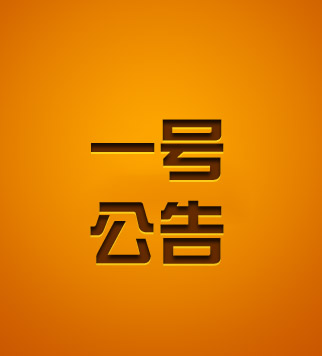
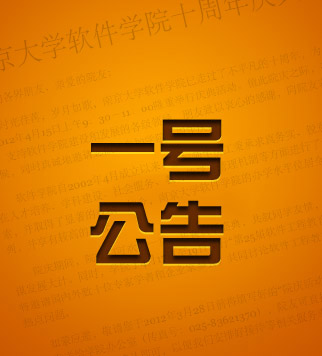
use template to display announcements

diff --git a/index.html b/index.html
@@ -141,26 +141,12 @@ slider:
   <!-- /section header -->
   <!-- section content -->
   <div class="announcements content clearfix">
-    <!-- column 1 -->
-    <div class="col col-1-4"> <header><span>一号公告</span></header>
-      <div class="lw-image"> <a href="http://software.nju.edu.cn?iframe=true&amp;width=100%&amp;height=100%" data-gal="lightbox[recent]"> <img src="assets/latest-works01.jpg" width="222" height="256" class="img-zoom" alt=""/> </a> </div>
-      <footer></footer> </div>
-    <!-- /column 1 -->
-    <!-- column 2 -->
-    <div class="col col-1-4"><header><span>二号公告</span></header>
-      <div class="lw-image"> <a href="assets/slider04.jpg" data-gal="lightbox[recent]"> <img src="assets/latest-works02.jpg" width="222" height="256" class="img-zoom" alt=""/> </a> </div>
-      <footer></footer> </div>
-    <!-- /column 2 -->
-    <!-- column 3 -->
-    <div class="col col-1-4"><header><span>三号公告</span></header>
-      <div class="lw-image"> <a href="assets/slider03.jpg" data-gal="lightbox[recent]"> <img src="assets/latest-works03.jpg" width="222" height="256" class="img-zoom" alt=""/> </a> </div>
-      <footer></footer> </div>
-    <!-- /column 3 -->
-    <!-- column 4 -->
-    <div class="col col-1-4 last"><header><span>四号公告</span></header>
-      <div class="lw-image"> <a  href="assets/showcase01.jpg" data-gal="lightbox[recent]"> <img src="assets/latest-works04.jpg" width="222" height="256" class="img-zoom" alt=""/> </a> </div>
-      <footer></footer> </div>
-    <!-- /column 4 -->
+    {% for post in site.categories.announcement %}
+    <div class="col col-1-4"> <header><span>{{  post.thumb_title  }}</span></header>
+      <div class="lw-image"> <a href="{{  post.url  }}?iframe=true&amp;width=80%&amp;height=100%" data-gal="lightbox[recent]"> <img src="{{  post.thumb  }}" width="222" height="256" class="img-zoom" alt=""/> </a> </div>
+      <footer></footer>
+    </div>
+    {% endfor %}
   </div>
   <!-- /section content -->
   <div class="section-line"></div>

diff --git a/css/markdown.css b/css/markdown.css
@@ -84,6 +84,10 @@ body{font-size:14px;}
 body{font-size:16px;}
 }
 
+@media only screen {
+  body{background:#E8E8E8 url(../images/bg.png) left top repeat;}
+}
+
 @media print {
   * { background: transparent !important; color: black !important; filter:none !important; -ms-filter: none !important; }
   body{font-size:12pt; max-width:100%;}
